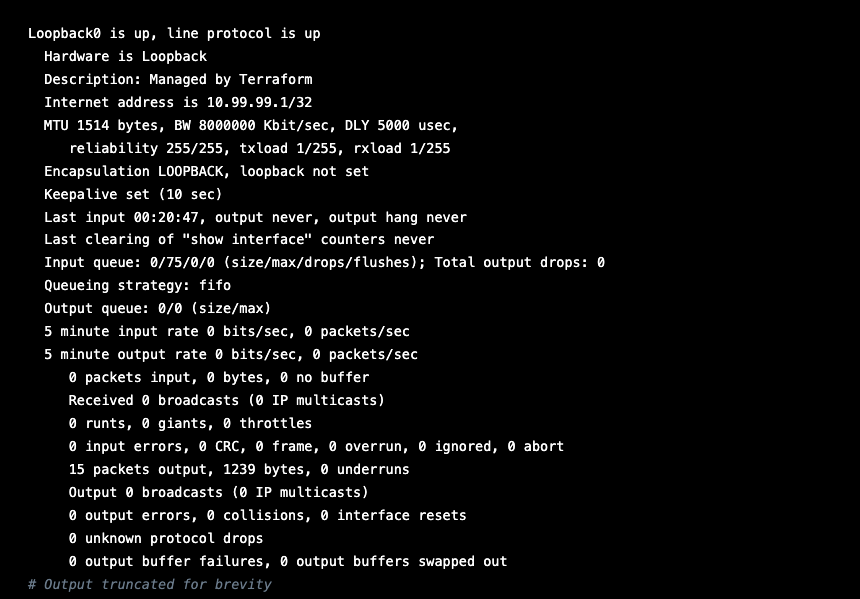
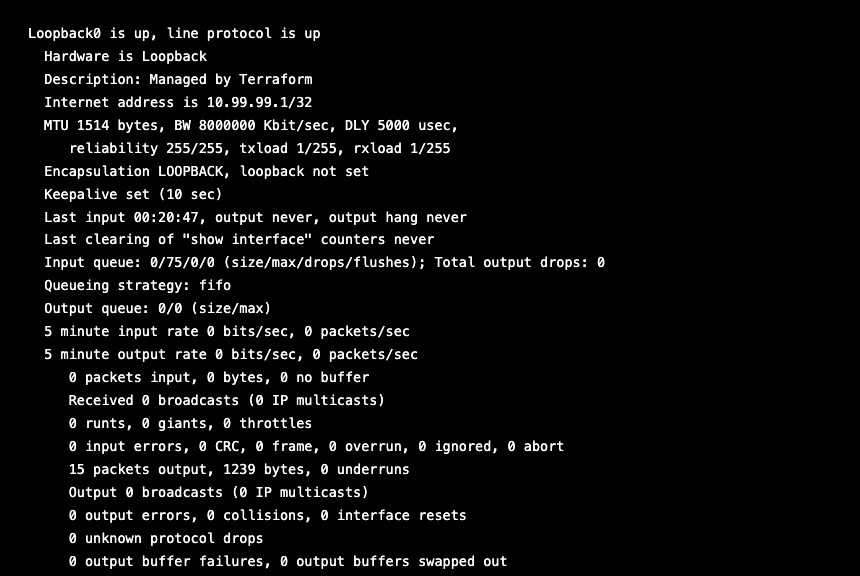
add step 19 terraform show image; fix step 17-18 outputs
- task5-terraform-show-output: iosxe resources + outputs excerpt with
  truncation comment; removes cat terraform.tfstate sub-section (callout
  box covers it better)
- task5-show-hostname-output: re-crop with more bottom padding to center text
- task5-show-loopback-output: remove false truncation comment
- task5-ip-addr-eth0-output: new image for step 18 ip addr show eth0

Changed region(s): [[0.0302, 0.0312, 0.7256, 1.0]]

diff --git a/images/task5-terraform-show-output.html b/images/task5-terraform-show-output.html
@@ -1,0 +1,60 @@
+<!DOCTYPE html>
+<html lang="en">
+<head>
+<meta charset="UTF-8" />
+<meta name="viewport" content="width=1200" />
+<title>task5-terraform-show-output</title>
+<style>
+  @import url('https://fonts.googleapis.com/css2?family=JetBrains+Mono:wght@400;600&display=swap');
+
+  * { box-sizing: border-box; margin: 0; padding: 0; }
+  html, body { overflow: hidden; }
+
+  body {
+    background: #000000;
+    font-family: 'JetBrains Mono', 'Courier New', monospace;
+  }
+
+  .terminal {
+    background: #000000;
+    width: 860px;
+    padding: 22px 28px 22px 28px;
+    font-size: 13.5px;
+    line-height: 1.7;
+  }
+
+  pre  { color: #ffffff; }
+  .cm  { color: #6a7a8a; font-style: italic; }
+</style>
+</head>
+<body>
+<div class="terminal">
+<pre><span class="cm"># Output truncated for brevity</span>
+
+# module.iosxe_config.iosxe_interface_loopback.lo0:
+resource "iosxe_interface_loopback" "lo0" {
+    description       = "Managed by Terraform"
+    id                = "Cisco-IOS-XE-native:native/interface/Loopback=0"
+    ipv4_address      = "10.99.99.1"
+    ipv4_address_mask = "255.255.255.255"
+    name              = 0
+}
+
+# module.iosxe_config.iosxe_system.this:
+resource "iosxe_system" "this" {
+    enable_secret_wo = (write-only attribute)
+    hostname         = "csr-terraform"
+    id               = "Cisco-IOS-XE-native:native"
+}
+
+
+Outputs:
+
+csr_hostname = "csr-terraform"
+csr_ip       = "172.20.21.10"
+linux1_ip    = "172.20.21.20"
+linux2_ip    = "172.20.21.21"
+loopback0    = "10.99.99.1/255.255.255.255"</pre>
+</div>
+</body>
+</html>

diff --git a/images/task5-ip-addr-eth0-output.html b/images/task5-ip-addr-eth0-output.html
@@ -1,0 +1,37 @@
+<!DOCTYPE html>
+<html lang="en">
+<head>
+<meta charset="UTF-8" />
+<meta name="viewport" content="width=1200" />
+<title>task5-ip-addr-eth0-output</title>
+<style>
+  @import url('https://fonts.googleapis.com/css2?family=JetBrains+Mono:wght@400;600&display=swap');
+
+  * { box-sizing: border-box; margin: 0; padding: 0; }
+  html, body { overflow: hidden; }
+
+  body {
+    background: #000000;
+    font-family: 'JetBrains Mono', 'Courier New', monospace;
+  }
+
+  .terminal {
+    background: #000000;
+    width: 860px;
+    padding: 22px 28px 22px 28px;
+    font-size: 13.5px;
+    line-height: 1.7;
+  }
+
+  pre { color: #ffffff; }
+</style>
+</head>
+<body>
+<div class="terminal">
+<pre>52: eth0@if53: &lt;BROADCAST,MULTICAST,UP,LOWER_UP&gt; mtu 1500 qdisc noqueue state UP group default
+    link/ether 02:42:ac:14:15:14 brd ff:ff:ff:ff:ff:ff link-netnsid 0
+    inet 172.20.21.20/24 brd 172.20.21.255 scope global eth0
+       valid_lft forever preferred_lft forever</pre>
+</div>
+</body>
+</html>

diff --git a/images/task5-show-loopback-output.html b/images/task5-show-loopback-output.html
@@ -52,8 +52,7 @@
      Output 0 broadcasts (0 IP multicasts)
      0 output errors, 0 collisions, 0 interface resets
      0 unknown protocol drops
-     0 output buffer failures, 0 output buffers swapped out
-<span class="cm"># Output truncated for brevity</span></pre>
+     0 output buffer failures, 0 output buffers swapped out</pre>
 </div>
 </body>
 </html>

diff --git a/TASK5.md b/TASK5.md
@@ -507,11 +507,6 @@ Once logged in:
 hostname
 ```
 
-> Expected output:
-<pre>
-0591fa78ea57
-</pre>
-
 > **Note:** The hostname is the short container ID, not `linux-terraform1`. This is
 > normal — the Terraform config does not explicitly set a hostname inside the container,
 > so Docker uses the container ID by default. Your container ID will be different.
@@ -521,12 +516,8 @@ ip addr show eth0
 ```
 
 > Expected output (interface number and MAC address will differ on your system):
-<pre>
-59: eth0@if60: <BROADCAST,MULTICAST,UP,LOWER_UP> mtu 1500 qdisc noqueue state UP group default
-    link/ether 02:42:ac:14:15:14 brd ff:ff:ff:ff:ff:ff link-netnsid 0
-    inet 172.20.21.20/24 brd 172.20.21.255 scope global eth0
-       valid_lft forever preferred_lft forever
-</pre>
+
+![ip addr show eth0 output](images/task5-ip-addr-eth0-output.png)
 
 The important line is `inet 172.20.21.20/24` — that confirms the container has the
 correct IP address on the `terraform-net` network.
@@ -549,71 +540,15 @@ Terraform reads `terraform.tfstate` and formats it for humans. The output lists 
 resource it manages, with all the attribute values recorded at creation time. The output
 is verbose — scroll through your terminal to see all 8 resources.
 
-Here is the first resource as an example of what to look for:
+Here is a focused excerpt showing the IOS-XE resources and outputs — notice how the `id` fields contain the RESTCONF paths that Terraform used to configure the router:
 
-> Expected output (first resource — your `id` values will differ):
-<pre>
-# module.docker_infra.docker_network.terraform_net:
-resource "docker_network" "terraform_net" {
-    driver                  = "bridge"
-    id                      = "d1921eb1ab7e8f3c2a4b..."
-    internal                = false
-    name                    = "terraform-net"
+> Expected output (truncated — the IOS-XE resources and outputs section):
 
-    ipam_config {
-        gateway = "172.20.21.1"
-        subnet  = "172.20.21.0/24"
-    }
-}
+![terraform show output](images/task5-terraform-show-output.png)
 
-# (remaining 7 resources follow — scroll to see docker_volume, docker_container x3,
-#  null_resource, iosxe_system, and iosxe_interface_loopback)
-</pre>
-
-> Notice the `id` field — this is a real runtime value that did not exist anywhere in
-> your `.tf` files. Terraform recorded it the moment Docker created the network. Every
-> resource has an `id` like this that Terraform uses to track and manage it going forward.
-
-#### View the raw state file
-
-```bash
-cat terraform.tfstate
-```
-
-The state file is plain JSON. You do not need to read all of it — here is the structure
-of one resource entry so you understand what Terraform is storing:
-
-> Expected output (trimmed — the `docker_network` resource entry):
-<pre>
-{
-  "version": 4,
-  "terraform_version": "1.14.7",
-  "resources": [
-    {
-      "module": "module.docker_infra",
-      "mode": "managed",
-      "type": "docker_network",
-      "name": "terraform_net",
-      "instances": [
-        {
-          "attributes": {
-            "driver": "bridge",
-            "id": "d1921eb1ab7e8f3c2a4b...",
-            "name": "terraform-net",
-            "ipam_config": [
-              {
-                "gateway": "172.20.21.1",
-                "subnet": "172.20.21.0/24"
-              }
-            ]
-          }
-        }
-      ]
-    },
-    ...
-  ]
-}
-</pre>
+> Notice the `id` fields — for the IOS-XE resources these are the RESTCONF paths Terraform
+> used to push config to the router. Terraform recorded them at creation time and will use
+> them for every future `plan`, `apply`, and `destroy`.
 
 > **What the state file is doing for you:**
 >
